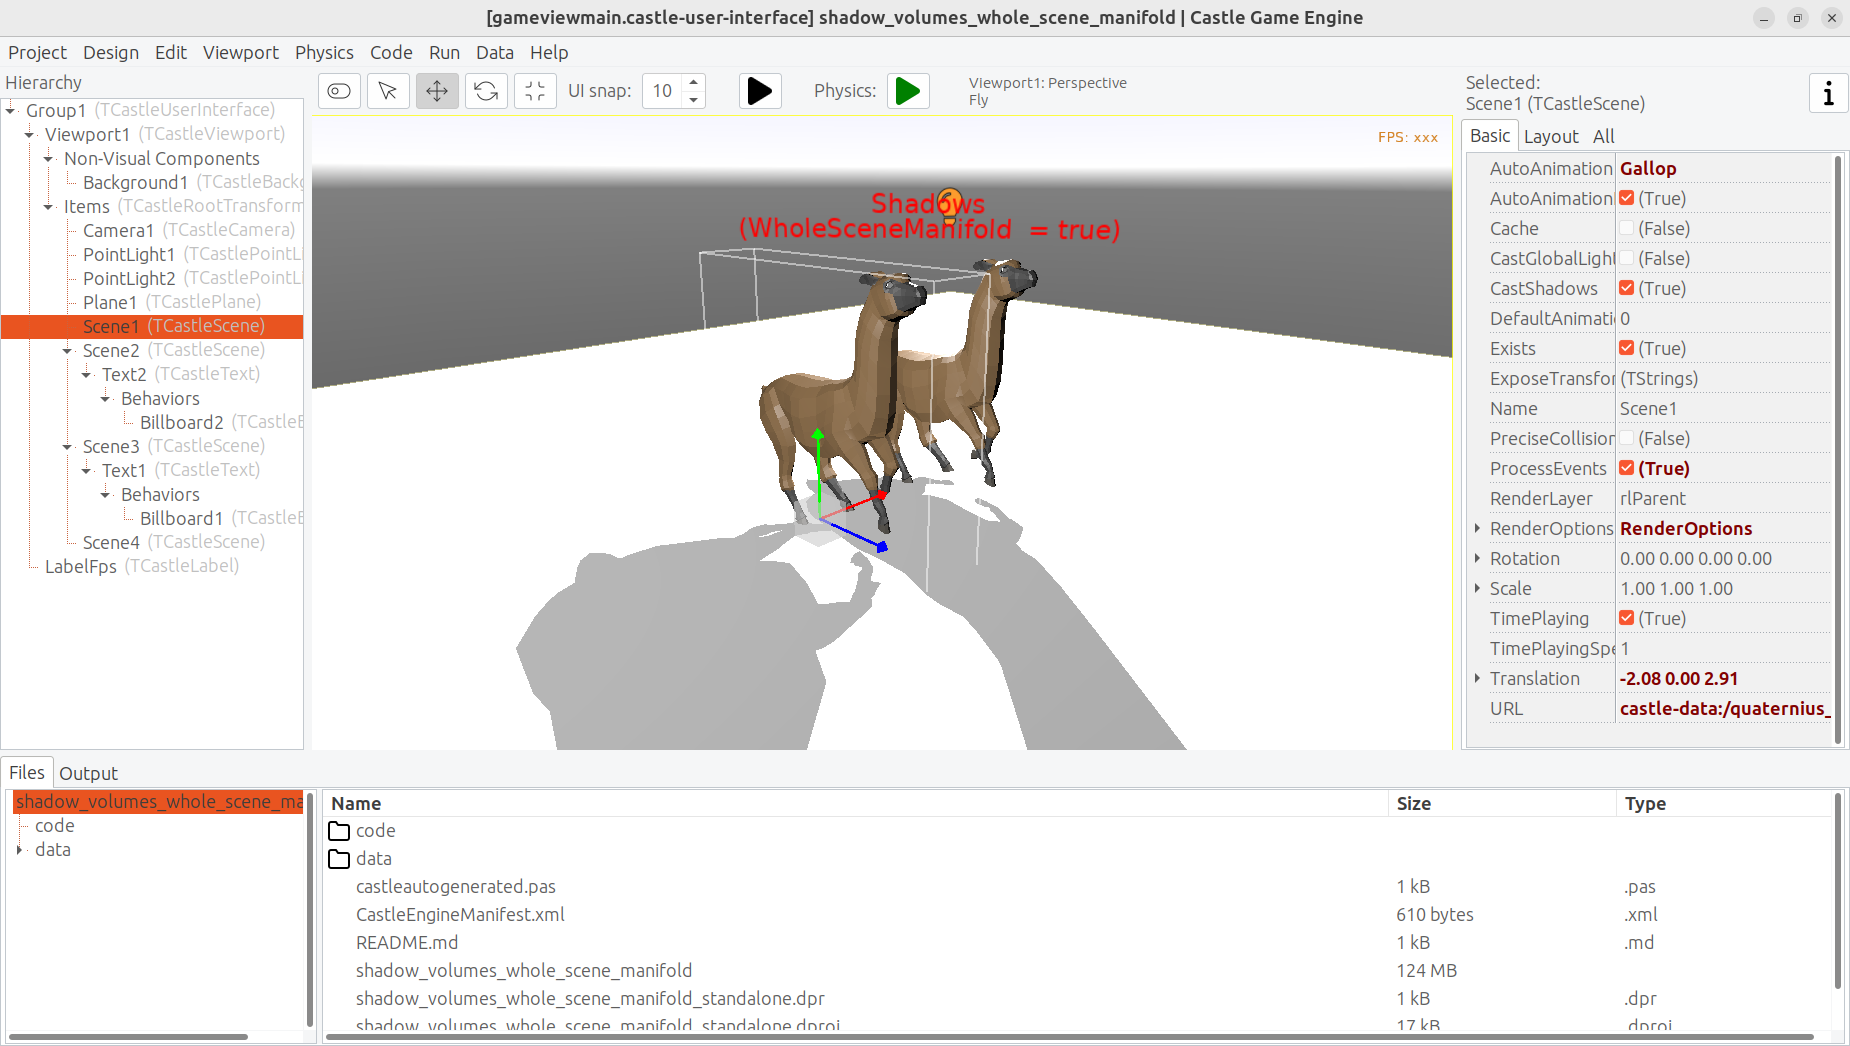
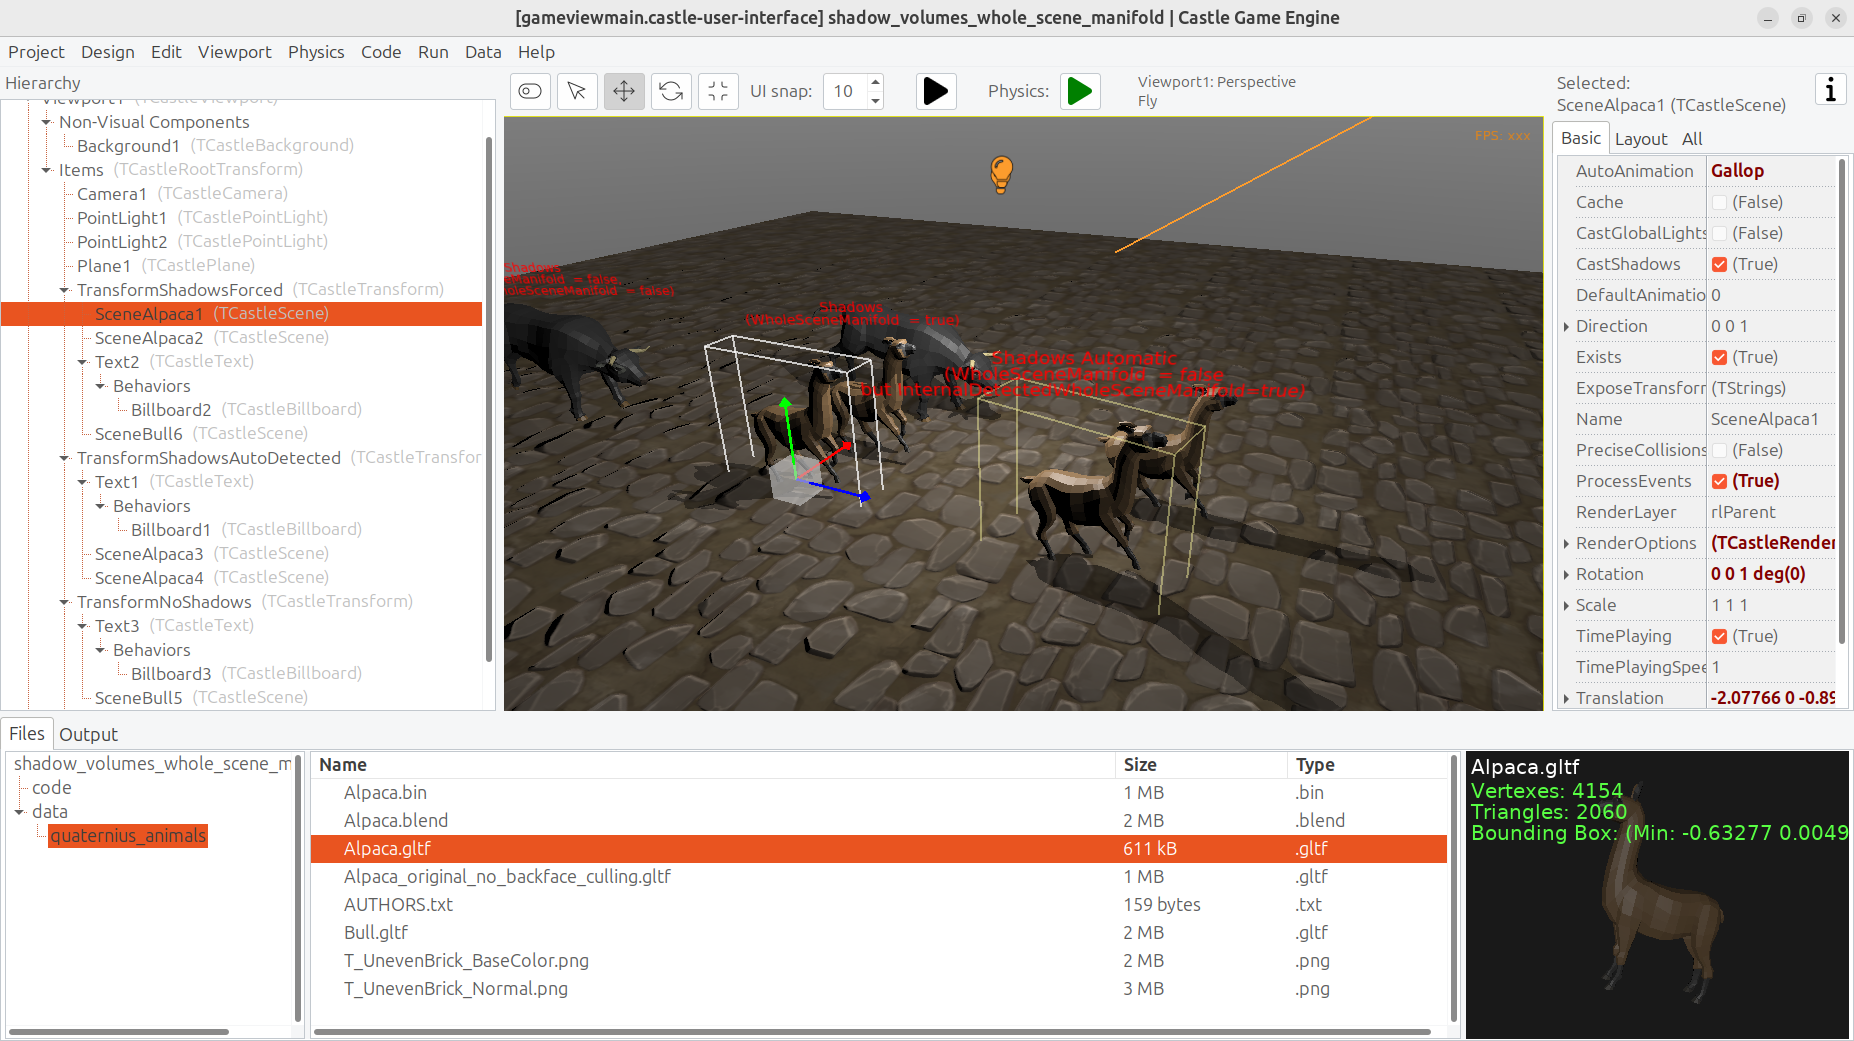
Update shadow_volumes_whole_scene_manifold README and screenshots

diff --git a/examples/viewport_and_scenes/shadow_volumes_whole_scene_manifold/README.md b/examples/viewport_and_scenes/shadow_volumes_whole_scene_manifold/README.md
@@ -1,10 +1,20 @@
-# Test RenderOptions.WholeSceneManifold
+# Test detecting scene as 2-manifold, and forcing treating scene as 2-manifold
 
-The example uses an Alpaca model that is *not* a single 2-manifold mesh, therefore by default it doesn't qualify as shadow volumes shadow caster. See https://castle-engine.io/shadow_volumes about 2-manifold requirement.
+For [shadow volumes](https://castle-engine.io/shadow_volumes), everything that casts shadows must be 2-manifold.
 
-However, this model actually is 2-manifold if you look at the scene as a whole. All shapes (all meshes) together form a 2-manifold, i.e. a tight skin, because different meshes just represent a different material. You can confirm it by trying to select _"Non Manifold"_ in Blender -- it will select nothing, the model is manifold for Blender (before it is broken into separate meshes for each material).
+- The engine can automatically detect when each _shape_ is 2-manifold.
 
-Using `RenderOptions.WholeSceneManifold` allows to tell CGE to use this model as shadow caster with shadow volumes.
+    Note: _Shape_ in Castle Game Eneigne means [X3D](https://castle-engine.io/x3d) `Shape` node, which is equal to [glTF](https://castle-engine.io/gltf) _primitive_, which is generally equal to a subset of [Blender object](https://castle-engine.io/blender) that has a single material.
+
+- The engine can also automatically detect when some shape(s) are not 2-manifold, but the _whole scene_ is 2-manifold. This is a common case when you have a 2-manifold mesh in Blender, but it uses multiple materials. In such case, exporting it to glTF or X3D splits each mesh into multiple shapes. Each shape is _not_ 2-manifold but whole scene is.
+
+- Even if none of the above applies, you can force treating the whole scene as 2-manifold. This is done by setting `RenderOptions.WholeSceneManifold` to `true`.
+
+This example shows:
+
+- _Alpaca_ model, that is detected as _whole scene is 2-manifold_.
+
+- _Bull_ model, that is not detected as _whole scene is 2-manifold_. It really is not 2-manifold (horns are not "closed") but we can ignore this, and force treating the whole scene as 2-manifold, and it happens to work correctly with shadow volumes.
 
 Note: We use a version of Alpaca model with _"Backface Culling"_ = _On_. Since 2-manifold scenes require consistent face ordering and "closed skin", using _"Backface Culling"_ on them is an obvious performance benefit. That said, the shadow volumes algorithm would also work if backface culling is off (you can test it by using `Alpaca_original_no_backface_culling.gltf` from our data), just rendering then wouldn't be optimal.
 
